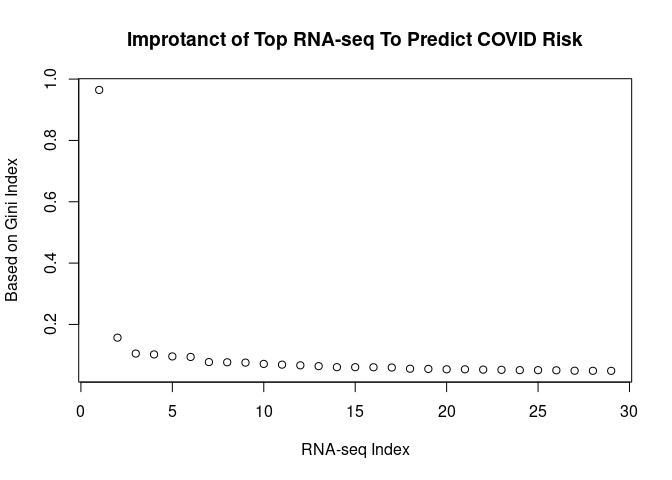
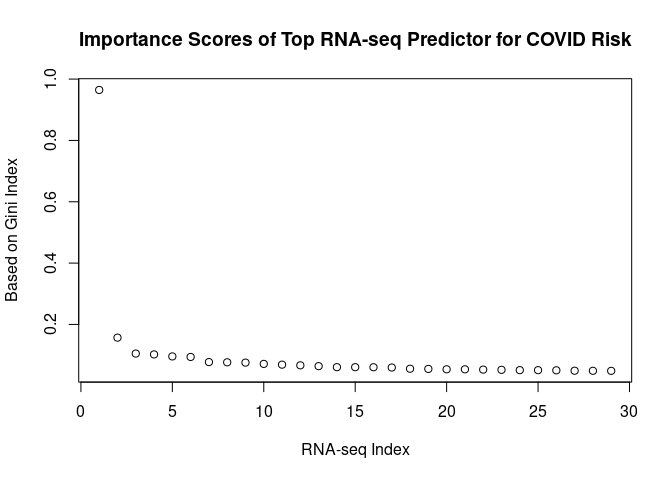
add RF model more

Changed region(s): [[0.0938, 0.0625, 0.5938, 0.125], [0.6875, 0.0625, 0.9375, 0.0938]]

diff --git a/RandomForest_CovidModel.md b/RandomForest_CovidModel.md
@@ -43,7 +43,7 @@ topPred
 ``` r
 rna_pred = dd.impor %>% select(splitVar, importance) %>% arrange(desc(importance))%>% head(n=30)
 rna_pred = rna_pred[-1, ]
-plot(1:nrow(rna_pred), rna_pred$importance, xlab="RNA-seq Index", ylab="Based on Gini Index", main="Improtanct of Top RNA-seq To Predict COVID Risk")
+plot(1:nrow(rna_pred), rna_pred$importance, xlab="RNA-seq Index", ylab="Based on Gini Index", main="Importance Scores of Top RNA-seq Predictor for COVID Risk")
 ```
 
 ![](RandomForest_CovidModel_files/figure-gfm/unnamed-chunk-2-1.png)<!-- -->

diff --git a/RandomForest_HTNModel.md b/RandomForest_HTNModel.md
@@ -43,7 +43,7 @@ topPred
 ``` r
 rna_pred = dd.impor %>% select(splitVar, importance) %>% arrange(desc(importance))%>% head(n=40)
 rna_pred = rna_pred[-c(1,2), ]
-plot(1:nrow(rna_pred), rna_pred$importance, xlab="RNA-seq Index", ylab="Based on Gini Index", main="Improtanct of Top RNA-seq To Predict HTN Risk")
+plot(1:nrow(rna_pred), rna_pred$importance, xlab="RNA-seq Index", ylab="Based on Gini Index", main="Importance Scores of Top RNA-seq Predictors for HTN Risk")
 ```
 
 ![](RandomForest_HTNModel_files/figure-gfm/unnamed-chunk-2-1.png)<!-- -->
